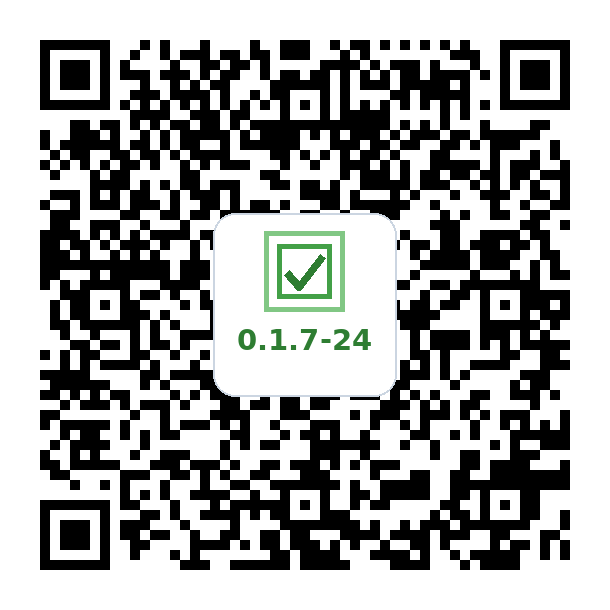
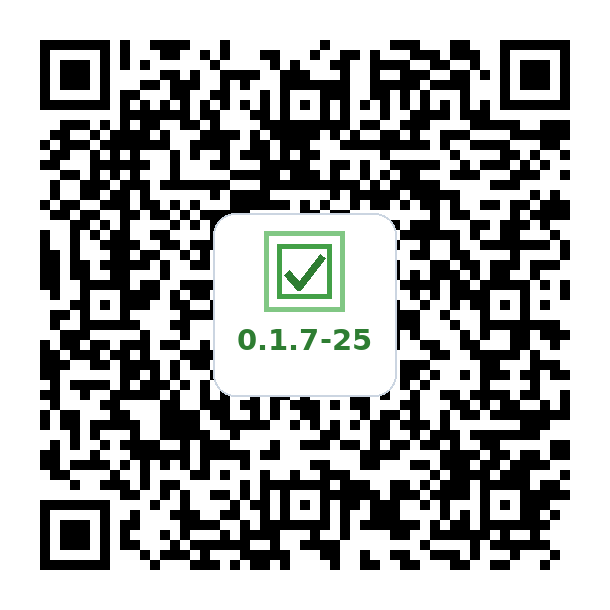
deploy: 68880baeeb17636ce8b92828e0fc736af7b723b4

Changed region(s): [[0.0623, 0.0623, 0.9344, 0.9344], [0.5607, 0.5295, 0.6541, 0.5918]]

diff --git a/index.html b/index.html
@@ -186,9 +186,9 @@
           <div class="qr-container">
             <img src="qr.png" alt="MicroTasking APK QR Code">
             <br>
-            <a href="https://github.com/vemcg/MicroTasking/releases/download/v0.1.7-24/MicroTasking-v0.1.7-24.apk" class="btn" target="_blank" rel="noopener">Download MicroTasking APK (v0.1.7-24)</a>
+            <a href="https://github.com/vemcg/MicroTasking/releases/download/v0.1.7-25/MicroTasking-v0.1.7-25.apk" class="btn" target="_blank" rel="noopener">Download MicroTasking APK (v0.1.7-25)</a>
             <br>
-            <a href="https://github.com/vemcg/MicroTasking/releases/download/v0.1.7-24/MicroTasking-v0.1.7-24.apk" target="_blank" rel="noopener">Open the download again</a>
+            <a href="https://github.com/vemcg/MicroTasking/releases/download/v0.1.7-25/MicroTasking-v0.1.7-25.apk" target="_blank" rel="noopener">Open the download again</a>
           </div>
         </li>
         <li>
